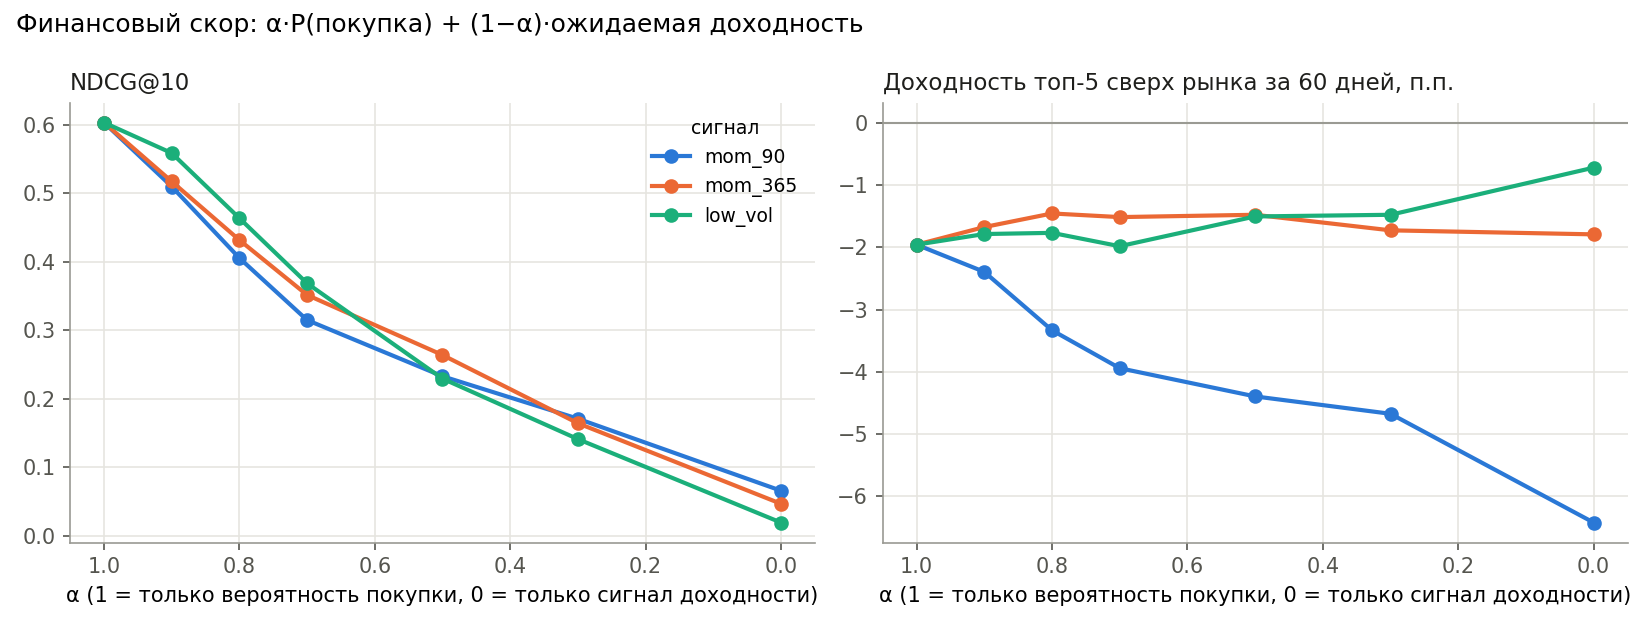
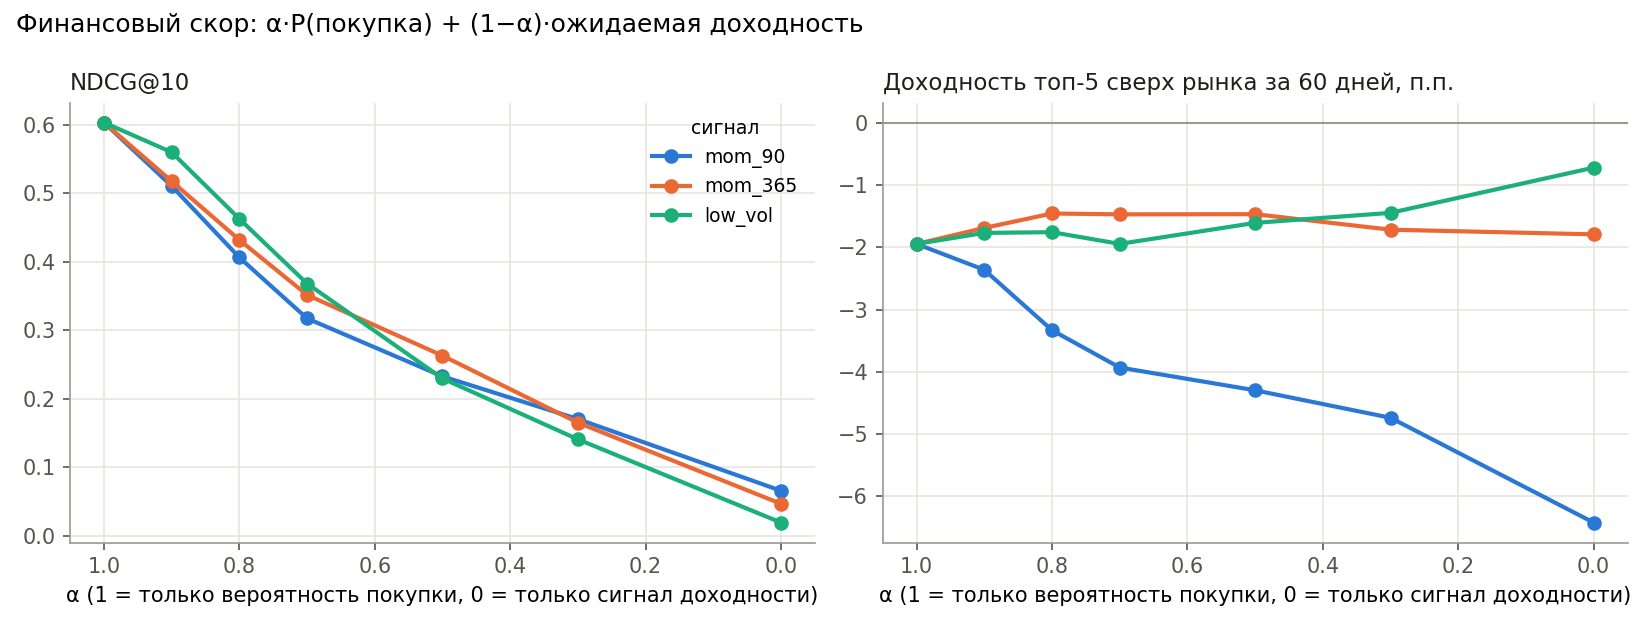
docs: итоговый README и отчёт для бизнеса
- пересчёт всех результатов с исправленным уровнем риска
- разделы: сравнение со статьёй, CatBoost, SHAP, сервис, ограничения
- docs/report.md: короткий отчёт без технических деталей

diff --git a/README.md b/README.md
@@ -1,84 +1,103 @@
 # FAR-Trans: рекомендации инвестиционных продуктов
 
-Для клиента на дату `t` ранжируем доступные активы так, чтобы наверху были те, что он купит
-в ближайшие 60 дней, при этом не нарушая его риск-профиль. Качество меряем тремя группами метрик:
-угадывание поведения, финансовый результат, пригодность (suitability).
+Для клиента на дату `t` ранжируем доступные активы (акции, облигации, фонды) так, чтобы наверху были те,
+что он купит в ближайшие 60 дней, при этом не нарушая его риск-профиль. Качество меряем тремя группами
+метрик: угадывание поведения, финансовый результат, пригодность (suitability).
 
-Данные: [FAR-Trans](https://doi.org/10.5525/gla.researchdata.1658) (Sanz-Cruzado, Droukas, McCreadie, 2024), CC BY 4.0.
-Положить распакованный архив в `data/raw/FAR-Trans/`.
+Данные: [FAR-Trans](https://doi.org/10.5525/gla.researchdata.1658) (Sanz-Cruzado, Droukas, McCreadie, 2024),
+реальные сделки клиентов европейского банка 2018–2022, CC BY 4.0. Короткий отчёт для бизнеса: [docs/report.md](docs/report.md).
+
+## Главное
+
+* **Двухуровневая модель** (кандидаты из CF → LightGBM lambdarank) лучше всех бейзлайнов на каждом из 6 тестовых
+  срезов: NDCG@10 **0.604** против 0.580, на новых для клиента активах **0.287** против 0.269.
+* **По протоколу авторов датасета** Item-kNN даёт nDCG@10 0.353 против 0.340 у лучшего метода статьи (LightGCN),
+  ранкер на подмножестве дат 0.345 против 0.335 у kNN и 0.280 у популярности.
+* **Соответствие риск-профилю стоит дорого:** клиенты в основном покупают то, что их профилю не подходит,
+  полный запрет неподходящих рекомендаций снижает NDCG на ~77%. Кривая компромисса показывает цену каждой политики.
+* **«Рекомендовать то, что вырастет» не работает:** популярность не предсказывает доходность, а momentum
+  развернулся в 2022 году. Честный отрицательный результат.
+* **Найдено и исправлено:** профили клиентов, заполненные задним числом (утечка), снапшот портфелей
+  под видом покупок, приостановленные акции, которые выглядели самыми безопасными.
 
 ## Структура
 
 ```
-configs/base.yaml        даты срезов, окна, шкала риска
-src/farrec/data.py       загрузка, очистка, as-of выборки
-src/farrec/portfolio.py  восстановление портфелей
-src/farrec/splits.py     срезы по времени, таргет, train/valid/test
-src/farrec/risk.py       уровни риска активов 1..7 (по волатильности, как SRRI)
-src/farrec/metrics.py    ranking / financial / suitability
-src/farrec/baselines.py  бейзлайны
-src/farrec/cf.py         Item-kNN и ALS
-src/farrec/candidates.py уровень 1: генерация кандидатов
-src/farrec/features.py   признаки клиента, актива и пары
-src/farrec/ranker.py     уровень 2: LightGBM / CatBoost ранкер
-src/farrec/evaluate.py   единый протокол оценки
-scripts/run_baselines.py бейзлайны на 12 срезах -> reports/baselines_*.csv
-scripts/tune_cf.py       подбор параметров kNN/ALS на валидации
-scripts/run_ranker.py    ранкер против бейзлайнов на 6 срезах
-tests/                   тесты на утечки
+configs/base.yaml           даты срезов, окна, шкала и политики риска
+src/farrec/data.py          загрузка, очистка, as-of выборки
+src/farrec/portfolio.py     восстановление портфелей по сделкам
+src/farrec/splits.py        срезы по времени, таргет, train/valid/test
+src/farrec/risk.py          уровни риска активов 1..7 (по волатильности, как SRRI)
+src/farrec/metrics.py       ranking / financial / suitability
+src/farrec/baselines.py     простые бейзлайны
+src/farrec/cf.py            Item-kNN и ALS
+src/farrec/candidates.py    уровень 1: генерация кандидатов
+src/farrec/features.py      признаки клиента, актива и пары
+src/farrec/ranker.py        уровень 2: LightGBM / CatBoost ранкер
+src/farrec/postprocess.py   пересортировка по риску и доходности
+src/farrec/evaluate.py      единый протокол оценки
+src/farrec/paper_protocol.py  протокол оценки из статьи авторов датасета
+scripts/                    запуск экспериментов (см. reproduce.sh)
+service/app.py              FastAPI: топ-k рекомендаций для клиента на дату
+tests/                      тесты на утечки и юнит-тесты
 ```
+
+## Запуск
 
 ```
 pip install -r requirements.txt
-python scripts/run_baselines.py
+# распаковать архив датасета в data/raw/FAR-Trans/
 pytest -q
+bash scripts/reproduce.sh          # все таблицы и графики, ~1 ч
+uvicorn service.app:app --port 8000
 ```
+
+Пример запроса к сервису:
+`GET /recommend?customer_id=DD1E7FA6C74787F13EC7&date=2022-09-15&k=5&policy=strict` возвращает топ-5 с уровнем риска
+каждой бумаги, отметкой «покупал раньше», источником рекомендации и числом кандидатов, отброшенных по риску.
+Первый запрос на месяц обучает модель (~2 мин), следующие занимают ~9 с.
 
 ## Схема эксперимента
 
-* Срезы: первое число каждого месяца, 2020-01 … 2022-09.
-* Признаки и кандидаты только из `(-inf, t)`, таргет: покупки в `[t, t+60d)`.
-* Test = последний срез (2022-09-01), valid = последний срез, чьё окно таргета заканчивается до test
-  (2022-07-01), train = срезы, чьё окно заканчивается до valid. Без зазора метки train пересекались бы с периодом оценки.
-* В оценке только клиенты, купившие хоть что-то в окне таргета.
+* Срезы: первое число каждого месяца. Признаки и кандидаты только из `(-inf, t)`, таргет: покупки в `[t, t+60d)`.
+* Для среза оценки `T` модель обучается только на прошлом: valid = последний срез, чьё окно таргета кончается
+  до `T` (early stopping), train = 12 срезов, чьи окна кончаются до valid. Без зазора метки train пересекались бы
+  с периодом оценки.
+* В оценке только клиенты, купившие хоть что-то в окне таргета. Бейзлайны оцениваются на 12 срезах
+  (2021-10 … 2022-09), ранкер на 6 (2022-04 … 2022-09) с переобучением на каждом.
+* `_new`-метрики: всё, что клиент покупал раньше, скрыто, таргет только первые покупки актива. Это важно,
+  потому что **78.5% покупок повторные**.
 
-## Особенности данных (найдено на EDA)
+## Особенности данных
 
-| Что | Как обработано |
+| Что нашёл | Как обработано |
 |---|---|
-| 2018-01-02: ~35.7k «покупок» за день (обычно ~50–300) — выгрузка стартовых портфелей | флаг `isSnapshot`: идут в портфель, но не считаются покупками |
-| `transactionID` не уникален (~29k повторов) — совместные счета, одна сделка на нескольких клиентов | дедупликация только по полной строке |
-| Риск-профиль бывает `Predicted_*` | префикс снимается, отдельный флаг `riskPredicted` |
-| Профиль клиента меняется во времени | берётся последний известный до среза |
+| 2018-01-02: ~35.7k «покупок» за день (обычно 50–300) — выгрузка стартовых портфелей | флаг `isSnapshot`: идут в портфель, но не считаются покупками |
+| `transactionID` не уникален (~29k повторов) — совместные счета | дедупликация только по полной строке |
+| Риск-профиль бывает `Predicted_*` | префикс снимается, отдельный флаг |
+| Профиль клиента не меняется во времени и заполнен задним числом | см. «Утечки» |
+| Приостановленные акции с замороженной ценой: волатильность 0 → уровень риска 1, «безопаснее облигаций» (FOLLIE FOLLIE, AEGEK, DIONIC…) | акция с >50% дней без изменения цены получает уровень 7 |
 | Продажи больше видимых покупок (история до 2018 не видна) | позиции обрезаются по нулю |
-| 89% покупок — акции | учитывать при интерпретации популярности |
+| 89% покупок — акции | учитывается при интерпретации |
 
-## Результаты бейзлайнов
+## Бейзлайны
 
-Backtest: среднее по 12 срезам (2021-10 … 2022-09), в скобках std. `_new` = уже купленное скрыто,
-таргет только первые покупки актива. Параметры kNN и ALS подобраны на валидационных срезах
-(`scripts/tune_cf.py`), тестовый срез при подборе не использовался.
+Среднее по 12 срезам, в скобках std. Параметры kNN и ALS подобраны только на срезах до теста (`scripts/tune_cf.py`).
 
-| method | NDCG@10 | HR@10 | NDCG@10_new | HR@10_new | Ret@5 (60д) | Unsuit@5 | Cov@10 |
-|---|---|---|---|---|---|---|---|
-| random | 0.002 | 0.01 | 0.003 | 0.01 | −0.4% | 0.36 | 0.01 |
-| pop_30d | 0.308 (0.070) | 0.64 | 0.243 | 0.48 | −1.0% (8.7%) | 0.62 | 0.01 |
-| pop_segment_90d | 0.261 | 0.61 | 0.188 | 0.43 | −1.9% | 0.56 | 0.02 |
-| momentum_90d | 0.017 | 0.06 | 0.016 | 0.05 | −5.6% (19%) | 0.72 | 0.01 |
-| repeat_then_pop | **0.546** (0.045) | **0.81** | 0.239 | 0.47 | −1.3% | 0.66 | 0.26 |
-| item_knn | 0.539 (0.050) | 0.81 | **0.281** (0.037) | **0.53** | −1.3% | 0.68 | 0.19 |
-| als | 0.540 (0.041) | 0.80 | 0.202 | 0.38 | −1.4% | 0.67 | 0.26 |
+| method | NDCG@10 | HR@10 | NDCG@10_new | HR@10_new | Ret@5 (60д) | Unsuit@5 |
+|---|---|---|---|---|---|---|
+| random | 0.002 | 0.01 | 0.003 | 0.01 | −0.4% | 0.38 |
+| pop_30d | 0.308 (0.070) | 0.64 | 0.243 | 0.48 | −1.0% (8.7%) | 0.62 |
+| pop_segment_90d | 0.261 | 0.61 | 0.188 | 0.43 | −1.9% | 0.56 |
+| momentum_90d | 0.017 | 0.06 | 0.016 | 0.05 | −5.6% (19%) | 0.72 |
+| repeat_then_pop | **0.546** (0.045) | **0.81** | 0.239 | 0.47 | −1.3% | 0.66 |
+| item_knn | 0.539 (0.050) | 0.81 | **0.281** (0.037) | **0.53** | −1.3% | 0.68 |
+| als | 0.540 (0.041) | 0.80 | 0.202 | 0.38 | −1.4% | 0.67 |
 
-Наблюдения:
-1. **78.5% покупок в окне таргета — повторные.** По общему NDCG простое «свои покупки + популярность»
-   не хуже kNN и ALS. Реальную разницу между моделями видно только на новых активах: там Item-kNN
-   лучше популярности на 16% (0.281 против 0.243), а ALS даже после подбора хуже популярности.
-2. **Один тестовый срез врёт.** На срезе 2022-09 популярность даёт +8.1% за 60 дней,
-   а в среднем по 12 срезам −1.0% при std 8.7%. Финансовые метрики имеет смысл смотреть только по многим срезам.
-3. **Ни один бейзлайн не обгоняет рынок** (Excess@5 около нуля или отрицательный). Momentum хуже всех:
-   он выбирает неликвидные бумаги с резкими скачками цены.
-4. **76% реальных покупок нарушают наивное соответствие «профиль → макс. уровень»**: почти все акции
-   получают уровень 6–7 по волатильности. Пороги нужно калибровать (или считать риск на уровне портфеля).
+* По общему NDCG «свои покупки + популярность» не хуже kNN и ALS: разницу между моделями видно только на новых активах.
+* **Один тестовый срез врёт.** На срезе 2022-09 популярность даёт +8.1% за 60 дней, в среднем по 12 срезам −1.0%
+  при std 8.7%. Финансовые метрики имеют смысл только по многим срезам.
+* Ни один бейзлайн не обгоняет рынок. Momentum хуже всех: выбирает неликвидные бумаги с резкими скачками цены.
 
 ## Двухуровневая модель
 
@@ -95,8 +114,6 @@ Backtest: среднее по 12 срезам (2021-10 … 2022-09), в скоб
 68 признаков ([features.py](src/farrec/features.py)): клиент (активность, портфель, профиль), актив (доходности,
 волатильность, просадка, популярность и её тренд), пара (держит ли, сколько раз покупал, доля сектора в портфеле,
 превышение риска, популярность в риск-сегменте, скоры и ранги источников).
-Для каждого среза оценки модель переобучается только на прошлых срезах: valid = последний срез с окном таргета
-до даты оценки (early stopping), train = 12 срезов с окном таргета до valid.
 
 Среднее по 6 срезам (2022-04 … 2022-09), модель лучше бейзлайнов **на каждом** срезе:
 
@@ -106,16 +123,48 @@ Backtest: среднее по 12 срезам (2021-10 … 2022-09), в скоб
 | repeat_then_pop | 0.580 | 0.83 | 0.235 | 0.44 |
 | item_knn | 0.574 | 0.83 | 0.269 | 0.49 |
 | als | 0.570 | 0.82 | 0.188 | 0.34 |
-| **ranker_lgbm** | **0.603** | **0.85** | **0.289** | **0.53** |
+| **ranker_lgbm** | **0.604** | **0.85** | **0.287** | **0.52** |
 
-Самые важные признаки (gain): ранги источников (ALS 29%, repeat 16%, kNN 13%), затем отрасль актива и доля
-актива в портфеле клиента. ALS слаб как самостоятельный рекомендатель, но его ранг самый информативный признак:
-он хорошо дополняет остальные источники.
+**CatBoost YetiRank** на 3 последних срезах: NDCG@10 0.590 против 0.588 у LightGBM, на новых активах 0.269 против
+0.271, то есть в пределах шума, а обучается примерно в 30 раз дольше (~1 ч против ~2 мин на срез). Основная модель — LightGBM.
+
+## Сравнение со статьёй авторов датасета
+
+Протокол статьи ([paper_protocol.py](src/farrec/paper_protocol.py)) отличается от моего: 61 дата раз в две недели
+(2019-08 … 2022-01), окно 6 месяцев, только новые для клиента активы, ROI@10 = среднемесячная доходность
+равновзвешенного топ-10. Чтобы убедиться, что протокол воспроизведён, сначала прогнал random: ROI@10 **0.0071**,
+ровно как в статье; nDCG@10 0.0098 против 0.0106.
+
+| метод | nDCG@10 | ROI@10 | источник |
+|---|---|---|---|
+| LightGCN (лучший в статье) | 0.340 | 0.0004 | статья, 61 дата |
+| Popularity | 0.271 | 0.0006 | статья, 61 дата |
+| UB kNN | 0.160 | 0.0119 | статья, 61 дата |
+| **Item-kNN** | **0.353** | −0.0086 | этот проект, те же 61 дата |
+| pop_30d | 0.304 | −0.0140 | этот проект, те же 61 дата |
+
+Ранкер переобучается на каждой дате, поэтому его прогнал на 18 месячных датах внутри периода статьи (2020-06 … 2021-11):
+**0.345** против 0.335 у Item-kNN (лучше в 15 датах из 18) и 0.280 у популярности. ROI@10 1.42% в месяц при рынке 1.25%.
+Отрыв от kNN здесь меньше, чем в основном протоколе: модель учится на 60-дневном таргете с повторными покупками,
+а протокол статьи меряет только новые активы за 6 месяцев.
+
+## Что модель выучила (SHAP)
+
+![shap](reports/figures/shap_summary.png)
+
+* 47% суммарного |SHAP| дают скоры и ранги источников (kNN, ALS, повторы), 28% признаки актива, по 12–13%
+  клиента и пары.
+* **Модель выучила «покупают то, что выросло»**: вклад доходности за 90 дней растёт с её величиной, плюс слабый
+  эффект покупки на просадке.
+* **Риск модели почти безразличен:** средний вклад превышения уровня риска ~0.008 против ~0.35 у ранга kNN.
+  Поведение клиентов не учит модель соблюдать профиль, поэтому ограничения накладываются отдельно.
+
+![shap dependence](reports/figures/shap_dependence.png)
 
 ## Риск-профиль: компромисс между качеством и соответствием
 
-Уровень риска актива 1..7 считается по годовой волатильности (корзины как в SRRI: 0.5/2/5/10/15/25%).
-Сначала я хотел откалибровать допустимые уровни по поведению клиентов, но **профиль почти не влияет на покупки**:
+Уровень риска актива 1..7 по годовой волатильности (корзины как в SRRI: 0.5/2/5/10/15/25%). Калибровать допустимые
+уровни по поведению нельзя: **профиль почти не влияет на покупки**.
 
 | профиль | доля покупок уровня 7 | доля акций |
 |---|---|---|
@@ -124,39 +173,33 @@ Backtest: среднее по 12 срезам (2021-10 … 2022-09), в скоб
 | Balanced | 82% | 87% |
 | Aggressive | 82% | 87% |
 
-Калибровка по данным разрешила бы всем всё. Объяснение: сделки в датасете клиентские (execution-only),
-а рекомендация — это совет, на который распространяются требования suitability. Поэтому лимиты
-задаются политикой ([configs/base.yaml](configs/base.yaml)): `strict` (Conservative ≤3, Income ≤4,
-Balanced ≤5, Aggressive ≤7) и `moderate` (+1 уровень для первых трёх профилей).
+Сделки в датасете клиентские (execution-only), а рекомендация — это совет, на который распространяются требования
+suitability. Поэтому лимиты задаются политикой ([configs/base.yaml](configs/base.yaml)): `strict` (Conservative ≤3,
+Income ≤4, Balanced ≤5, Aggressive ≤7) и `moderate` (+1 уровень для первых трёх профилей).
 
-Пересортировка ([postprocess.py](src/farrec/postprocess.py)): итоговый скор = перцентиль скора модели
-− λ × превышение уровня. Жёсткий фильтр выкидывает неподходящие активы и добивает список
-самыми популярными подходящими.
+Пересортировка ([postprocess.py](src/farrec/postprocess.py)): итоговый скор = перцентиль скора модели − λ × превышение
+уровня. Жёсткий фильтр выкидывает неподходящие активы и добивает список самыми популярными подходящими.
 
 ![risk](reports/figures/risk_tradeoff.png)
 
 | strict | NDCG@10 | NDCG@10_new | доля неподходящих в топ-5 |
 |---|---|---|---|
-| λ = 0 (без ограничений) | 0.603 | 0.289 | 73% |
-| λ = 0.1 | 0.573 | 0.282 | 69% |
-| λ = 0.2 | 0.503 | 0.240 | 61% |
-| λ = 0.5 | 0.195 | 0.126 | 16% |
+| λ = 0 (без ограничений) | 0.604 | 0.287 | 73% |
+| λ = 0.1 | 0.574 | 0.280 | 69% |
+| λ = 0.2 | 0.504 | 0.239 | 61% |
+| λ = 0.5 | 0.200 | 0.127 | 17% |
 | жёсткий фильтр | 0.140 | 0.105 | 0% |
 
-Выводы:
-* **Бесплатного соответствия нет.** Клиенты в основном покупают то, что их профилю не подходит, поэтому
-  каждая убранная неподходящая рекомендация — это потерянное попадание. Полное соблюдение политики
-  стоит ~77% NDCG.
-* Кривая не линейная: при λ ≤ 0.1 качество почти не падает (−5%), а потом резко обрывается между 0.2 и 0.5.
-* Умеренная политика при той же доле нарушений даёт заметно больше качества: выбор политики — это
-  бизнес-решение, и кривая показывает его цену.
-* Для продукта осмысленная точка — жёсткий фильтр (регуляторно иначе нельзя) и отдельная оптимизация
-  качества *внутри* допустимого множества. Это следующий шаг.
+* **Бесплатного соответствия нет:** каждая убранная неподходящая рекомендация — это потерянное попадание.
+  Полное соблюдение strict-политики стоит ~77% NDCG.
+* Кривая не линейная: при λ ≤ 0.1 потеря ~5%, затем обрыв между 0.2 и 0.5.
+* Умеренная политика при той же доле нарушений даёт заметно больше качества. Выбор политики — бизнес-решение,
+  кривая показывает его цену.
 
 ## Финансовый скор: работает ли «рекомендовать то, что вырастет»
 
-Итоговый скор = α × перцентиль P(покупки) + (1 − α) × перцентиль сигнала доходности. Сначала проверил,
-предсказывают ли сигналы будущую доходность вообще (rank IC с доходностью за 60 дней, 28 срезов 2020–2022):
+Итоговый скор = α × перцентиль P(покупки) + (1 − α) × перцентиль сигнала доходности. Сначала проверил, предсказывают ли
+сигналы будущую доходность (rank IC с доходностью за 60 дней, 28 срезов 2020–2022):
 
 | сигнал | средний IC | доля месяцев с IC > 0 |
 |---|---|---|
@@ -165,44 +208,46 @@ Balanced ≤5, Aggressive ≤7) и `moderate` (+1 уровень для перв
 | низкая волатильность | −0.090 | 39% |
 | популярность за 30д | +0.008 | 43% |
 
-Популярность доходность не предсказывает вообще: люди покупают то, что на слуху, и это никак
-не связано с будущим ростом.
-
 ![return](reports/figures/return_tradeoff.png)
 
-Результат на 6 тестовых срезах (2022-04 … 2022-09, падающий рынок):
-* **momentum 90д ухудшает доходность**: при α = 0 рекомендации отстают от рынка на 6.4 п.п. против 2.0 п.п.
-  у чистой модели. Сигнал, который работал в среднем за 2020–2022, развернулся в 2022 году.
-* momentum 365д даёт +0.5 п.п. при α = 0.8, но NDCG падает с 0.60 до 0.43. Такой обмен не оправдан
-  при шуме доходности ±7 п.п. между срезами.
-* **Вывод: финансовый скор на этих данных не работает.** Устойчивого сигнала ожидаемой доходности
-  нет, а цена в качестве рекомендаций большая. Это результат, а не провал эксперимента.
+* **Популярность доходность не предсказывает:** люди покупают то, что на слуху, и это не связано с будущим ростом.
+* **momentum 90д в 2022 году ухудшает доходность:** при α = 0 рекомендации отстают от рынка на 6.4 п.п. против 2.0 п.п.
+  у чистой модели. Сигнал, работавший в среднем за 2020–2022, развернулся.
+* momentum 365д даёт +0.5 п.п. при α = 0.8, но NDCG падает с 0.60 до 0.43, а шум доходности между срезами ±7 п.п.
+* **Вывод:** на этих данных финансовый скор не работает. Это результат, а не провал эксперимента.
 
 ## Качество по сегментам
 
 ![segments](reports/figures/segments.png)
 
-| сегмент | n | repeat_then_pop | item_knn | ranker | ranker, новые активы | item_knn, новые активы |
+| сегмент | n | repeat_then_pop | item_knn | ranker | ranker, новые | item_knn, новые |
 |---|---|---|---|---|---|---|
-| Новички (≤2 покупок) | 268 | 0.334 | 0.348 | **0.392** | **0.247** | 0.196 |
-| Активные (≥10 за 90д) | 247 | 0.695 | 0.645 | **0.704** | 0.277 | **0.290** |
-| Консерваторы и Income | 588 | 0.606 | 0.604 | **0.629** | **0.324** | 0.305 |
-| Все | 1753 | 0.580 | 0.574 | **0.603** | **0.292** | 0.269 |
+| Новички (≤2 покупок) | 268 | 0.334 | 0.348 | **0.390** | **0.247** | 0.196 |
+| Активные (≥10 за 90д) | 247 | 0.695 | 0.645 | **0.707** | 0.271 | **0.290** |
+| Консерваторы и Income | 588 | 0.606 | 0.604 | **0.627** | **0.319** | 0.305 |
+| Все | 1753 | 0.580 | 0.574 | **0.604** | **0.289** | 0.269 |
 
-* Больше всего ранкер выигрывает на новичках: +13% к лучшему бейзлайну, на новых активах +26%.
+* Больше всего ранкер выигрывает на новичках: +12% к лучшему бейзлайну, на новых активах +26%.
 * У активных клиентов на новых активах kNN лучше ранкера: модель налегает на повторные покупки.
-  Возможное исправление — отдельная модель или признак-взаимодействие для discovery.
 
 ## Утечки, которые нашёл и закрыл
 
 * **Профили клиентов заполнены задним числом.** В 38.5% строк `lastQuestionnaireDate` позже даты самой строки,
-  а риск-профиль ни у одного клиента не меняется во времени. То есть профиль отражает итоговое состояние, а не
-  состояние на дату. Признак «дней с последней анкеты» давал отрицательные значения и был убран. Риск-профиль
-  используется как статичный атрибут; это ограничение данных, полностью его не устранить.
-
+  а риск-профиль ни у одного клиента не меняется. Профиль отражает итоговое состояние, а не состояние на дату.
+  Признак «дней с последней анкеты» давал отрицательные значения и был убран; риск-профиль используется как
+  статичный атрибут (ограничение данных).
+* **Снапшот портфелей 2018-01-02 под видом покупок** раздувал бы популярность и таргет.
 * Цены только forward-fill, никогда backward-fill (иначе в прошлое попадают будущие цены).
 * Кандидаты ограничены активами, у которых была цена до среза.
 * `forward_return` использует будущие цены и вызывается только в метриках.
-* Тест `tests/test_no_leakage.py`: рекомендации и признаки второго уровня на полных данных и на данных,
+* Обучающие срезы ранкера только такие, у которых окно таргета закончилось до среза оценки.
+* Подбор гиперпараметров только на срезах до теста.
+* Тест [test_no_leakage.py](tests/test_no_leakage.py): рекомендации и признаки второго уровня на полных данных и на данных,
   обрезанных по дате среза, должны совпадать.
-* Обучающие срезы ранкера берутся только такие, у которых окно таргета закончилось до среза оценки.
+
+## Ограничения
+
+* Риск-профиль статичен и, вероятно, отражает анкеты после даты среза.
+* Уровень риска считается по отдельной бумаге, а не по портфелю: для реального продукта нужна оценка вклада в риск портфеля.
+* Таргет — факт покупки. Мы не знаем, что клиенту показывали, поэтому это оценка «угадывания», а не эффекта рекомендаций.
+* Тестовый период 2022 года — падающий рынок; финансовые выводы привязаны к режиму рынка.

diff --git a/docs/report.md b/docs/report.md
@@ -1,0 +1,40 @@
+# Рекомендации инвестиционных продуктов: отчёт
+
+## Задача
+
+Блок «Вам может подойти» в приложении брокера: для каждого клиента показать 5–10 бумаг или фондов, которые он
+с высокой вероятностью купит, не нарушая требований к соответствию риск-профилю. Данные — реальные сделки
+29 тыс. клиентов европейского банка за 2018–2022 годы (открытый датасет FAR-Trans).
+
+## Результат
+
+* Модель в 85% случаев ставит в топ-10 хотя бы одну бумагу, которую клиент купит в ближайшие 60 дней
+  (лучшая простая эвристика — 83%). По качеству ранжирования (NDCG@10) она лучше на 4%, а по бумагам,
+  которых клиент раньше не покупал, на 7% (лучше на всех 6 месяцах теста).
+* Больше всего модель помогает **новым клиентам**: +12% к качеству, +26% по новым для клиента бумагам.
+  Именно здесь у банка нет истории, на которую можно опереться.
+* По методике авторов датасета решение лучше лучшего опубликованного метода (0.353 против 0.340 nDCG@10).
+
+## Что важно знать бизнесу
+
+1. **Клиенты покупают в основном то, что уже покупали.** 78.5% покупок — докупка знакомых бумаг. Реальная ценность
+   рекомендаций — в новых бумагах, и метрики нужно смотреть отдельно по ним.
+2. **Клиенты массово покупают бумаги выше своего риск-профиля.** Даже у консерваторов 70% покупок — отдельные
+   волатильные акции. Если рекомендовать только подходящее, вероятность «попасть» в покупку падает в 4 раза.
+   Это не дефект модели, а цена регуляторных требований. Мы построили кривую, которая показывает,
+   сколько качества стоит каждый уровень строгости политики, — это решение бизнеса и комплаенса, а не ML.
+3. **Рекомендовать «то, что вырастет», на этих данных не получается.** Популярные бумаги не растут лучше рынка,
+   а сигнал «росло — будет расти» в 2022 году развернулся и ухудшил доходность рекомендаций.
+   Обещать клиентам доходность через рекомендации нельзя.
+
+## Ограничения
+
+* Мы оцениваем, угадывает ли модель покупки, а не то, как рекомендации меняют поведение. Для этого нужен A/B-тест.
+* Риск считается по отдельной бумаге; для продакшена нужна оценка риска портфеля целиком.
+* Риск-профили в данных заполнены задним числом, поэтому их связь с поведением может быть завышена.
+
+## Следующие шаги
+
+1. Обучить модель качества **внутри** допустимого по риску множества, а не только фильтровать после.
+2. A/B-тест блока рекомендаций с метриками: конверсия в покупку, доля новых бумаг, доля подходящих по профилю.
+3. Оценка риска на уровне портфеля клиента.
